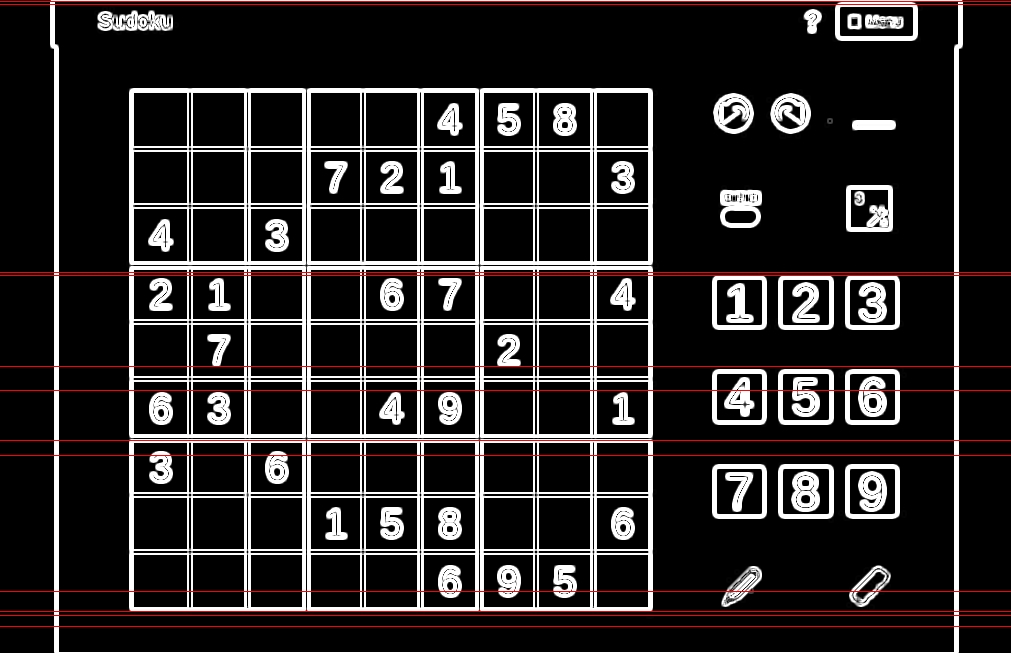
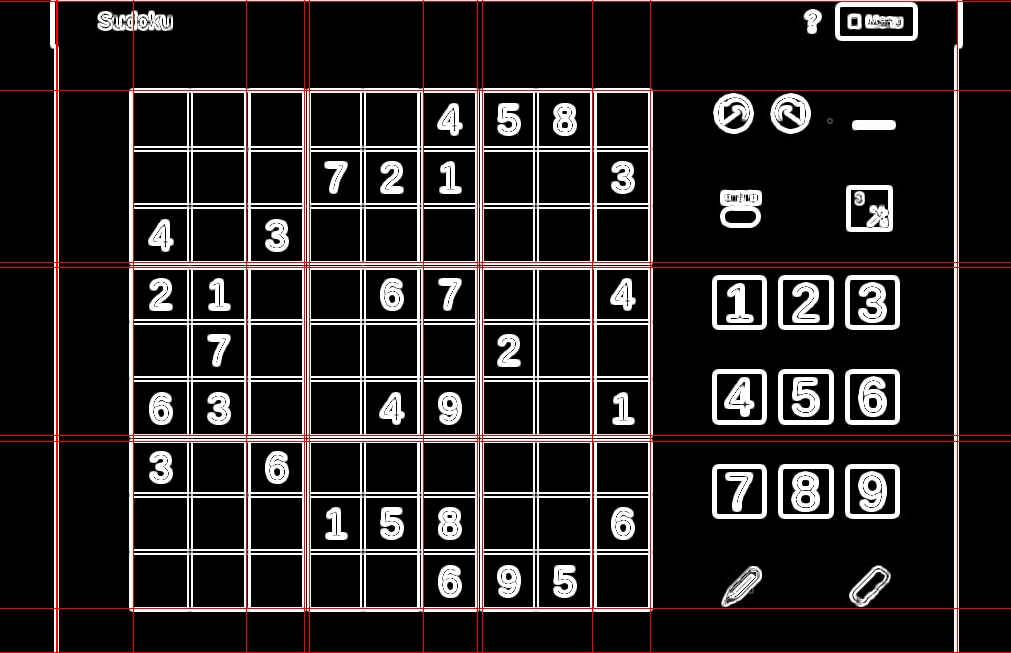
houghpasmal

diff --git a/manipulateImage/hough.c b/manipulateImage/hough.c
@@ -52,15 +52,19 @@ int HoughTransform(char path[],int threshold)
     unsigned int*_accu = (unsigned int*)calloc(_accu_h * _accu_w, sizeof(unsigned int));  
     int center_x = w/2;  
     int center_y = h/2;  
+    Uint8 r, g, _b;
+    Uint32 pixel;
     for(int y=0;y<h;y++)  
     {  
         for(int x=0;x<w;x++)  
         {  
-            if( data[ (y*w) + x] > 250 )  
+            pixel = GetPixel(newIMG, x, y);
+            SDL_GetRGB(pixel, newIMG -> format, &r, &g, &_b);
+            if( r == 255 && g == 255 && _b == 255 )  
             {  
                for(int t=0;t<180;t++)  
                { 
-                   double r = ( ((double)x - center_x) * cos((double)t * (M_PI/180.0))) + (((double)y - center_y) * sin((double)t * (M_PI/180.0)));  
+                   double r = ( ((double)x - center_x) * cos((double)t * 0.017453293)) + (((double)y - center_y) * sin((double)t * 0.017453293));  
                   _accu[ (int)((round(r + hough_h) * 180.0)) + t]++;  
                }  
             }  
@@ -70,23 +74,13 @@ int HoughTransform(char path[],int threshold)
     //Transform
 
     if(threshold == 0)
-        threshold = 300;
+        threshold = 500;
 
     //Search the accumulator
     vector lines = GetLines(threshold,img,_accu_w,_accu_h,_accu,newIMG);
 
     //Draw the results
-    printf("%d\n",vectorTotal(&lines) );
-    for(int i=0;i<(vectorTotal(&lines));i++)
-    {
-        struct couple_2 *ligne=vectorGet(&lines,i);
-        struct couple couplex=(*ligne).x;
-        struct couple coupley=(*ligne).y;
-        printf("%d %d\n",couplex.x,couplex.y );
-        //printf("%d\n %d\n",coupley.x,coupley.y );
 
-        //drawLine(newIMG,couplex.x,coupley.y,coupley.x,coupley.y);
-    }
     free(_accu);
     IMG_SaveJPG(newIMG, "hough.jpg",100);   
 
@@ -132,17 +126,17 @@ vector GetLines(int threshold, SDL_Surface *img,int _accu_w,int _accu_h,unsigned
                 {
                     //y = (r - x cos(t)) / sin(t)
                     x1 = 0;
-                    y1 = ((double)(r-(_accu_h/2)) - ((x1 - (img->w/2) ) * cos(t * M_PI/180.0))) / sin(t * M_PI/180.0) + (img->h / 2);
+                    y1 = ((double)(r-(_accu_h/2)) - ((x1 - (img->w/2) ) * cos(t * 0.017453293))) / sin(t * 0.017453293) + (img->h / 2);
                     x2 = img->w - 0;
-                    y2 = ((double)(r-(_accu_h/2)) - ((x2 - (img->w/2) ) * cos(t * M_PI/180.0))) / sin(t * M_PI/180.0) + (img->h / 2);
+                    y2 = ((double)(r-(_accu_h/2)) - ((x2 - (img->w/2) ) * cos(t * 0.017453293))) / sin(t * 0.017453293) + (img->h / 2);
                 }
                 else
                 {
                     //x = (r - y sin(t)) / cos(t);
                     y1 = 0;
-                    x1 = ((double)(r-(_accu_h/2)) - ((y1 - (img->h/2) ) * sin(t * M_PI/180.0))) / cos(t * M_PI/180.0) + (img->w / 2);
+                    x1 = ((double)(r-(_accu_h/2)) - ((y1 - (img->h/2) ) * sin(t * 0.017453293))) / cos(t * 0.017453293) + (img->w / 2);
                     y2 = img->h - 0;
-                    x2 = ((double)(r-(_accu_h/2)) - ((y2 - (img->h/2) ) * sin(t * M_PI/180.0))) / cos(t * M_PI/180.0) + (img->w / 2);
+                    x2 = ((double)(r-(_accu_h/2)) - ((y2 - (img->h/2) ) * sin(t * 0.017453293))) / cos(t * 0.017453293) + (img->w / 2);
                 }
                 struct couple couple1 =
                 {
@@ -159,12 +153,12 @@ vector GetLines(int threshold, SDL_Surface *img,int _accu_w,int _accu_h,unsigned
                     couple1,
                     couple2,
                 };
-                //printf("%d %d\n",couple1.x,couple1.y );
-                //printf("%d\n %d\n",couple2.x,couple2.y );
+                printf("%d %d\n",couple1.x,couple1.y );
+                printf("%d %d\n",couple2.x,couple2.y );
 
                 struct couple couplex=couple3.x;
                 struct couple coupley=couple3.y;
-                drawLine(newIMG,couplex.x,coupley.y,coupley.x,coupley.y);
+                drawLine(newIMG,couplex.x,couplex.y,coupley.x,coupley.y);
 
 
                 //printf("%d %d\n",couplex.x,couplex.y );

diff --git a/manipulateImage/edgeDetector.c b/manipulateImage/edgeDetector.c
@@ -37,6 +37,8 @@ void drawLine(SDL_Surface *img, int x1, int y1, int x2, int y2)
     
 }
 
+
+
 float getAveragePixel(SDL_Surface *img, point p)
 {
     Uint8 r;
